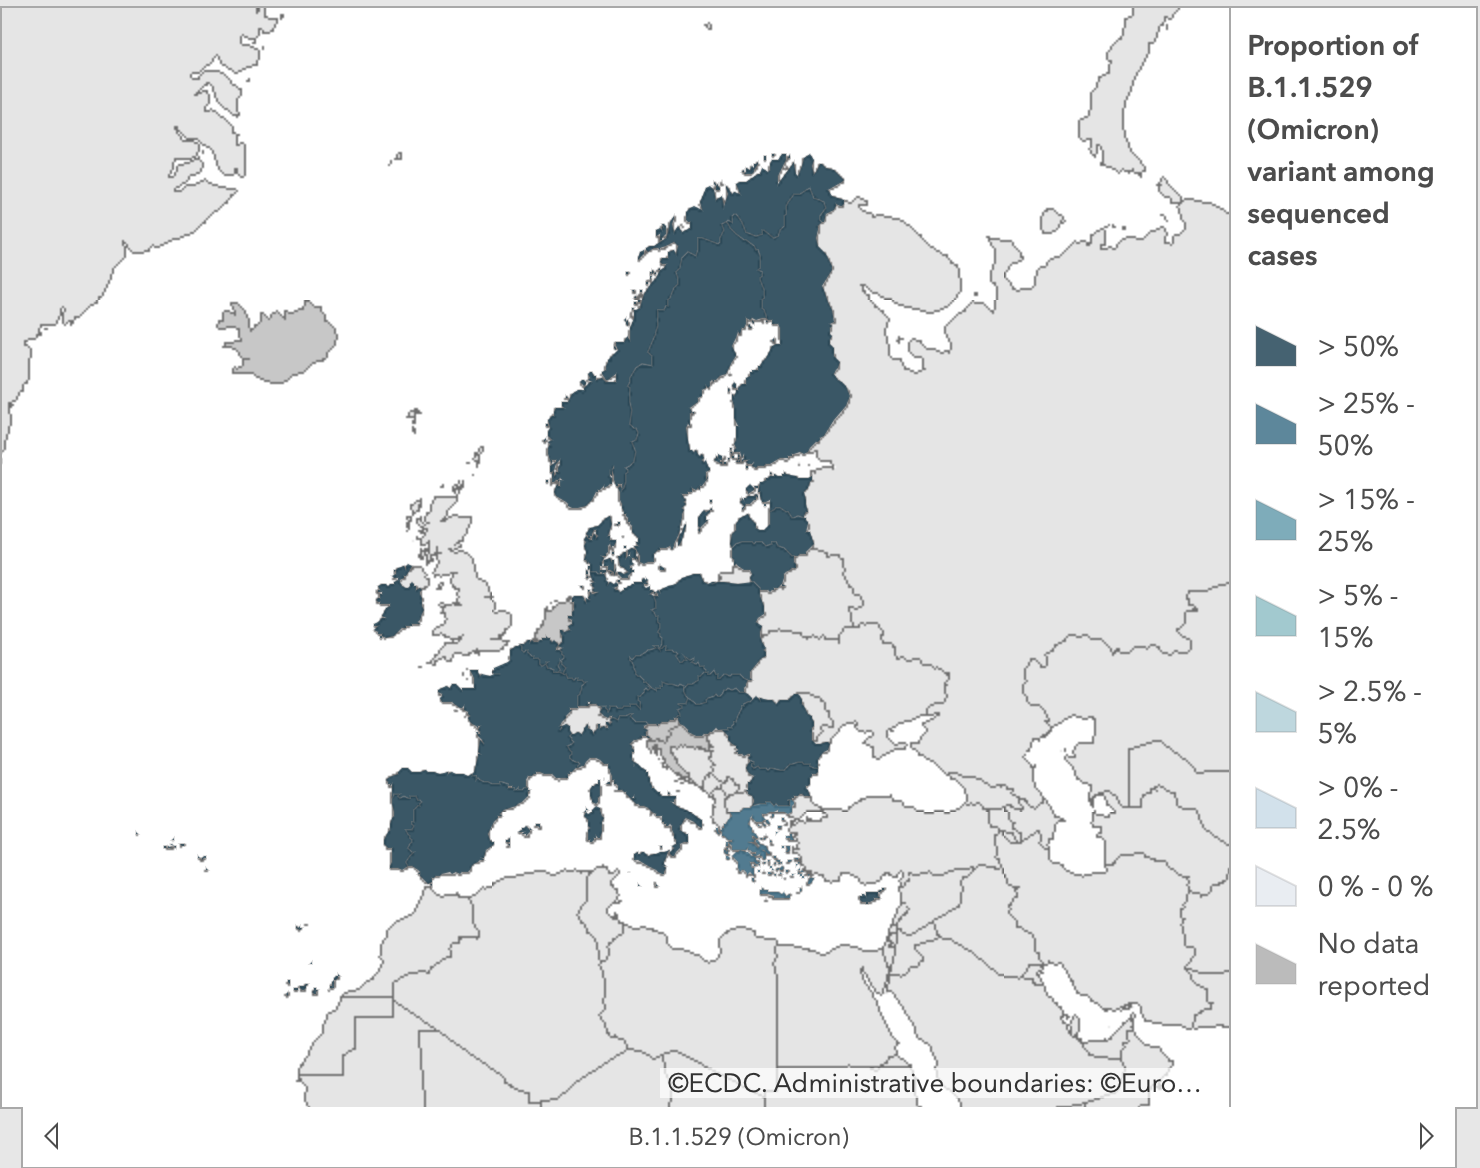
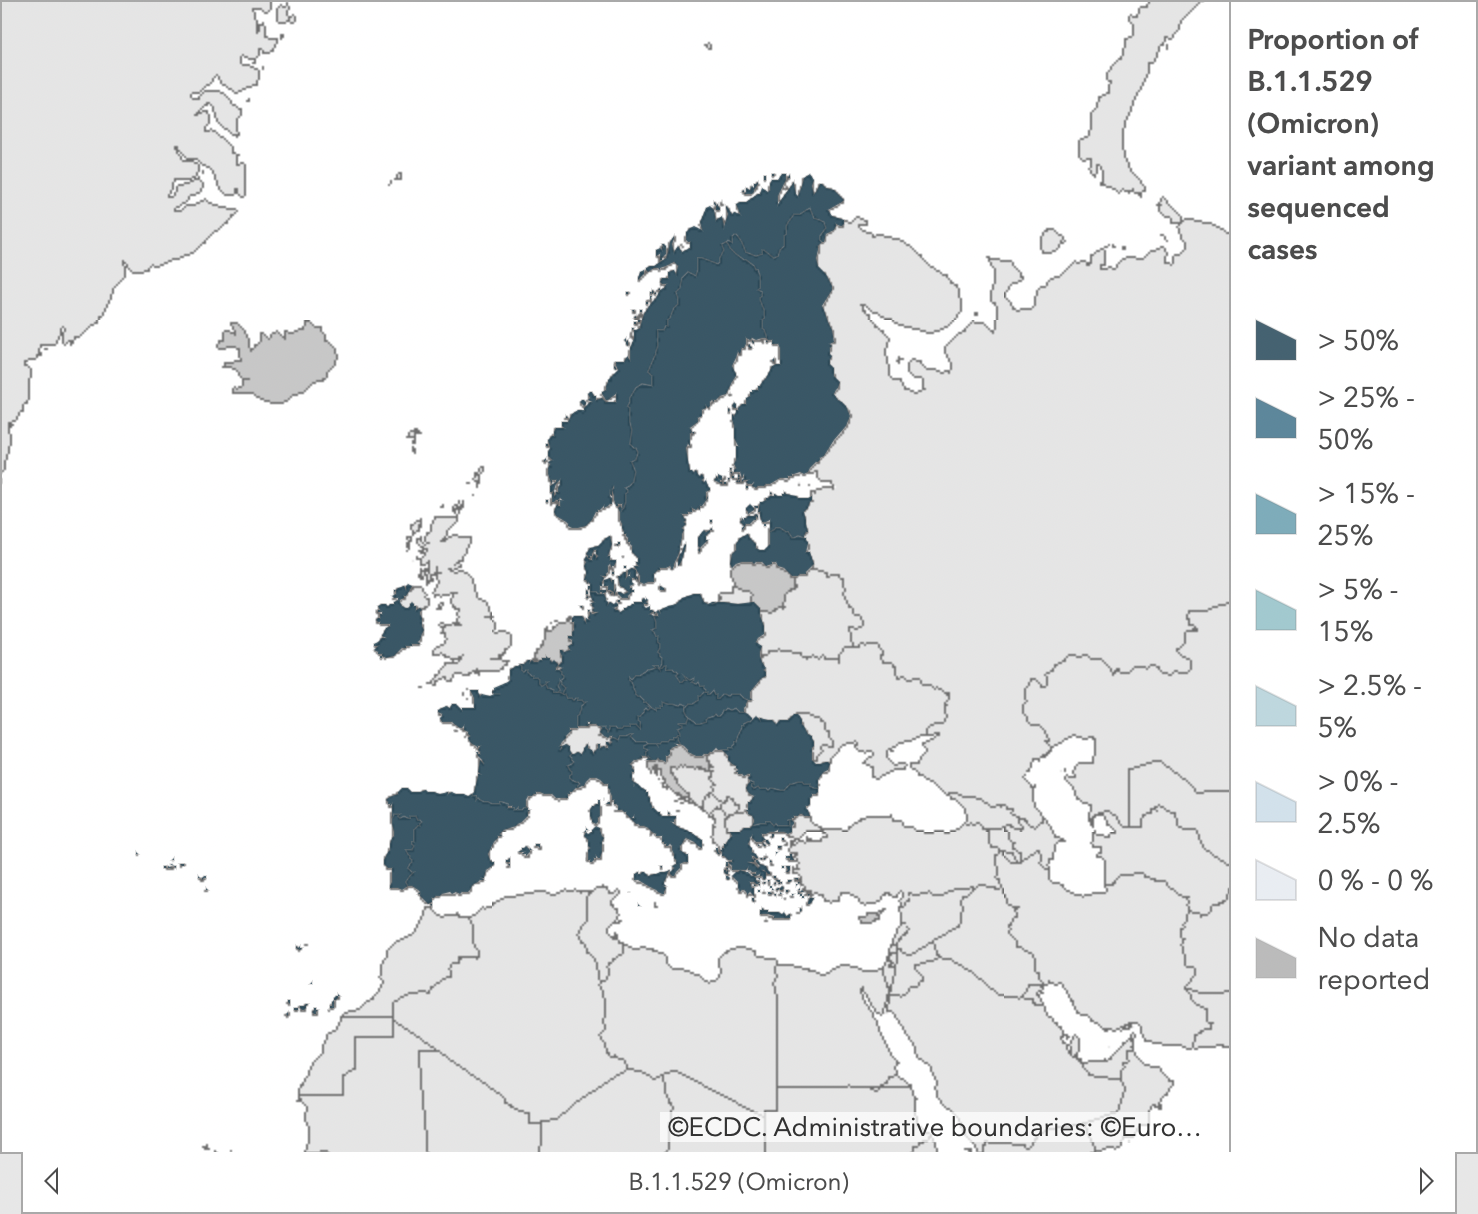
week 8 2022 V1.1

diff --git a/input/mtomkova/popis-variant.html b/input/mtomkova/popis-variant.html
@@ -55,7 +55,7 @@ kde vedou k silnější vazbě na lidský ACE2 receptor a současně ke snížen
 <div class="figure" style="break-before: avoid;">
         <img src="{{obrazek(template, 'michal_obrazek1.png')}}" >
         <div class="legenda">
-            <i>Zastoupení varianty Omicron v Evropě v 2. týdnu roku 2022. Převzato z&nbsp;<a href="https://gis.ecdc.europa.eu/portal/apps/experiencebuilder/experience/?id=d5b70ae8befb464490e53bbec9f6c354">ECDC Dashboard on Variants of interest and concern in the EU/EEA</a>.</i>
+            <i>Zastoupení varianty Omicron v Evropě v 7. týdnu roku 2022. Převzato z&nbsp;<a href="https://gis.ecdc.europa.eu/portal/apps/experiencebuilder/experience/?id=d5b70ae8befb464490e53bbec9f6c354">ECDC Dashboard on Variants of interest and concern in the EU/EEA</a>.</i>
         </div>
     </div> 
 
